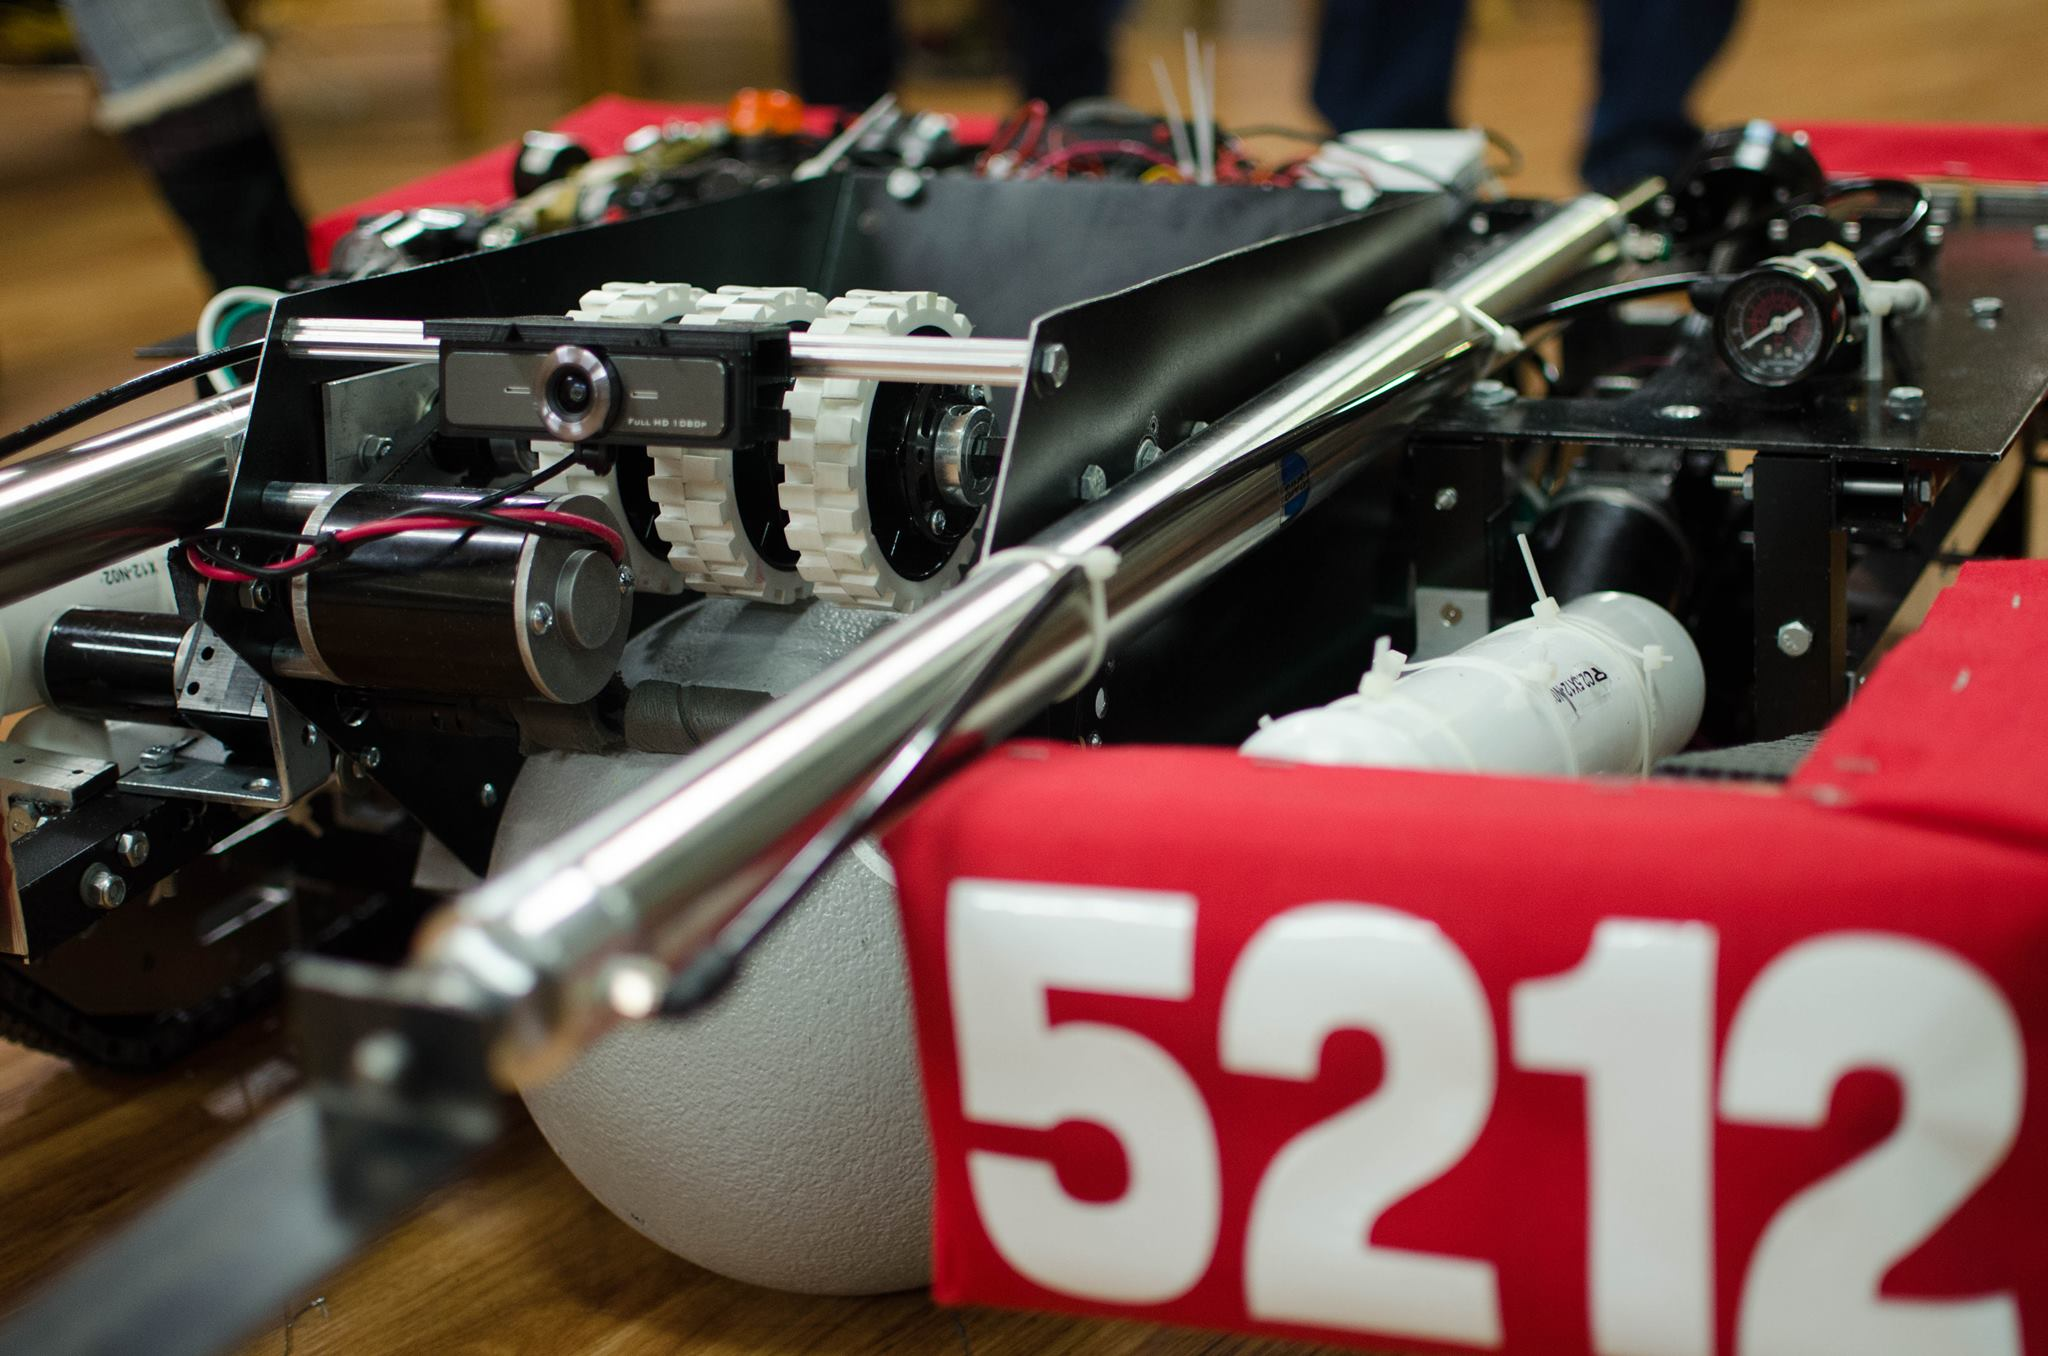
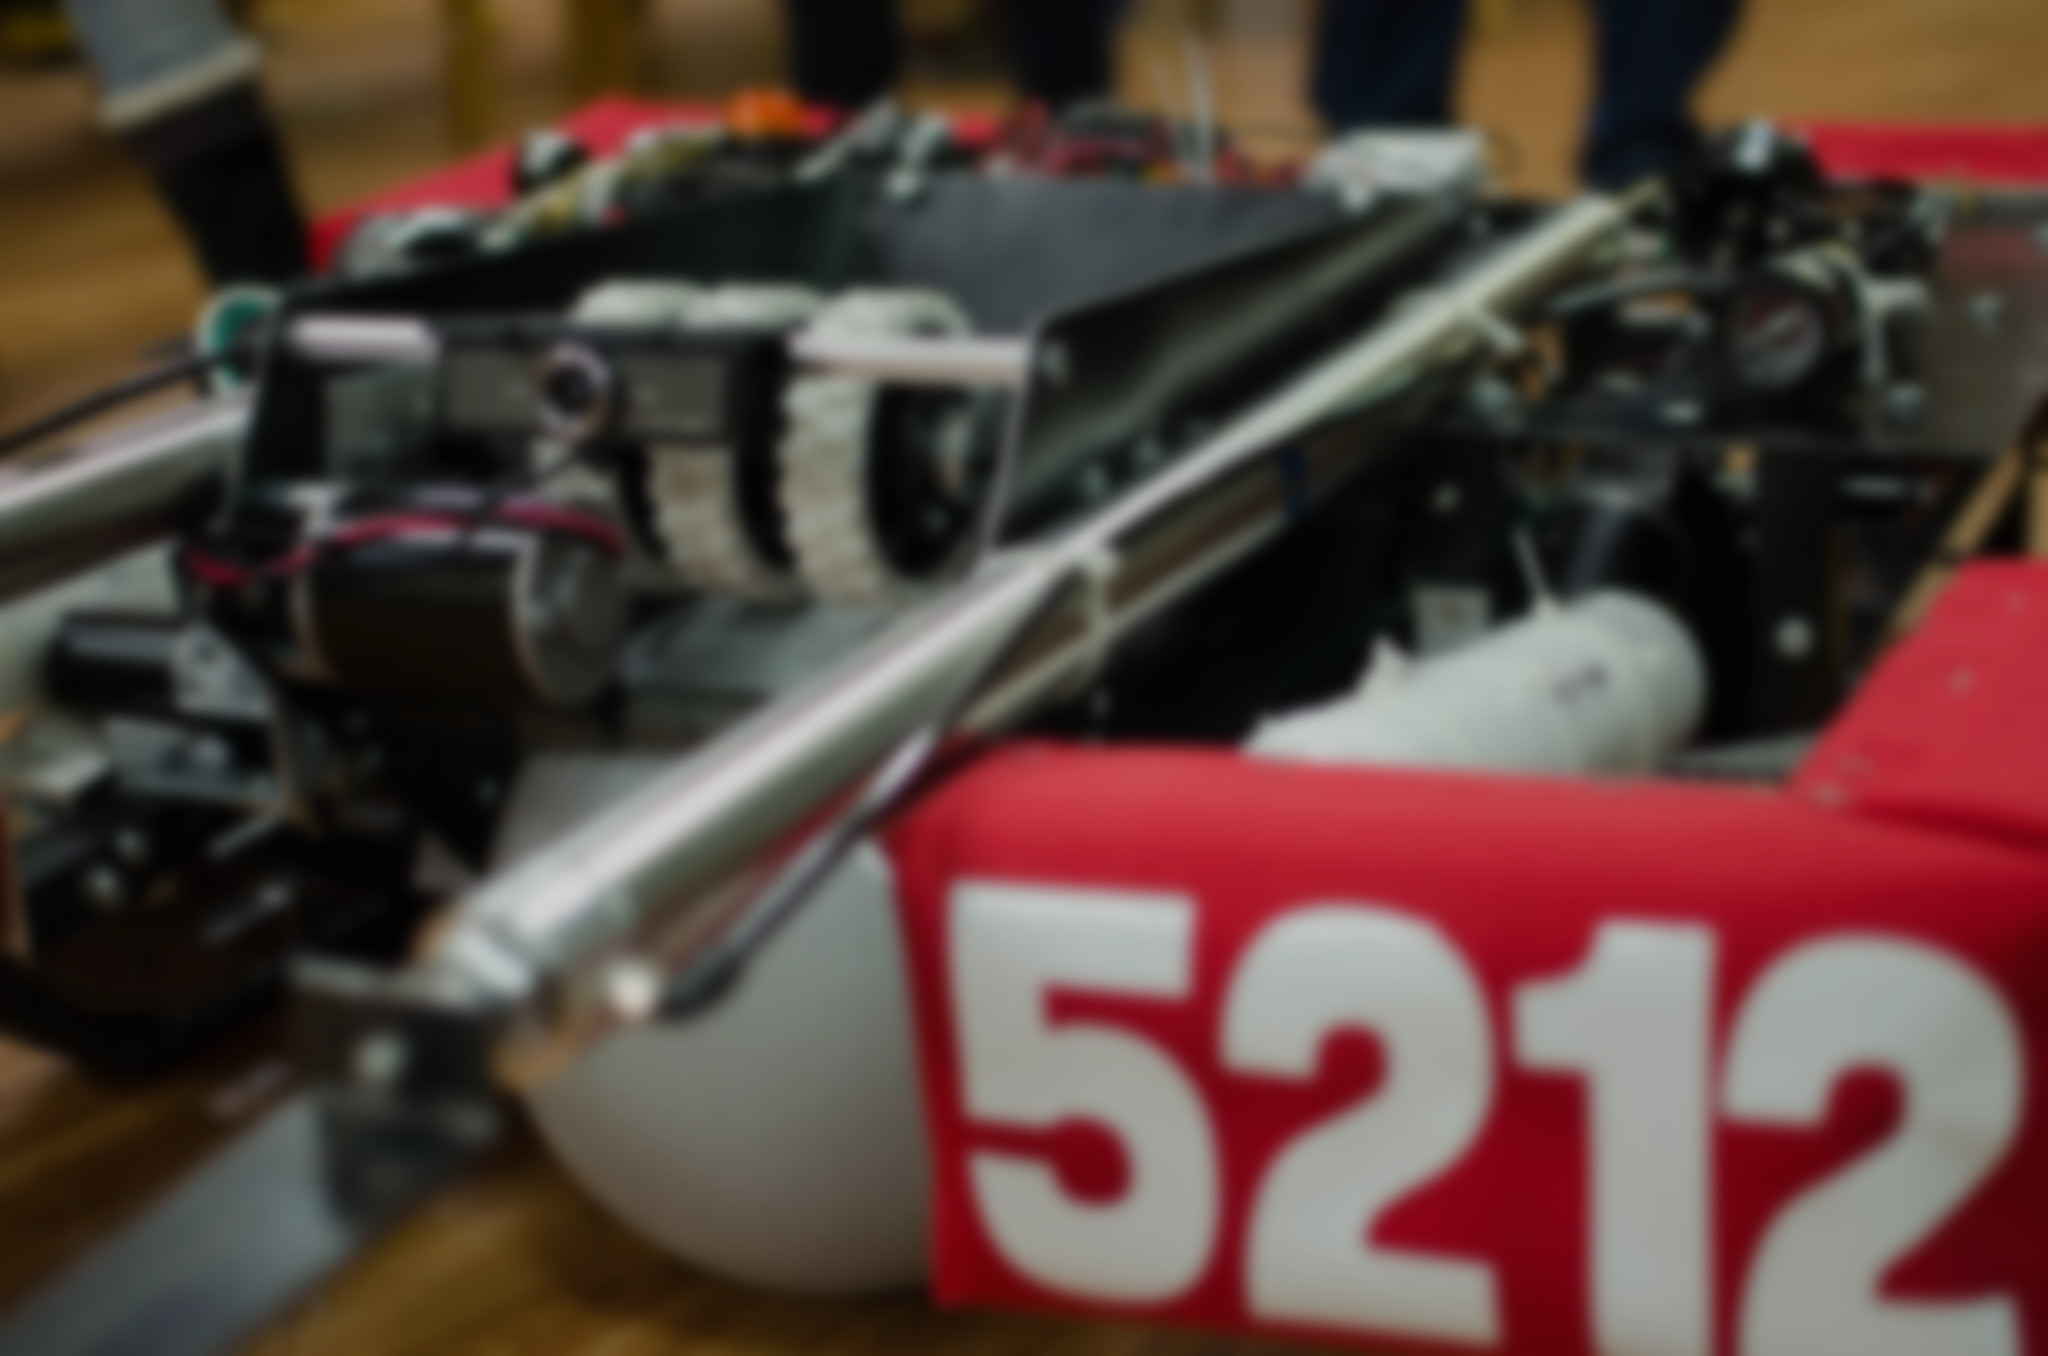
blurred and darkened background photo, fixed scrolling to the top so it removes nav items from focus

diff --git a/index.html b/index.html
@@ -37,7 +37,7 @@
          <div style="position:relative">
             <img src="img/robot.jpg" style="width: 100%"></img>
 
-            <h2 class="image-title">TAMSformers 2016-2017</h2>
+            <h2 class="null header image-title">TAMSformers 2016-2017</h2>
 
             <span class="hide-on-med-and-down">
                <a href="#" class="badge-container" onclick='javascript:scrollTo("about")'>
